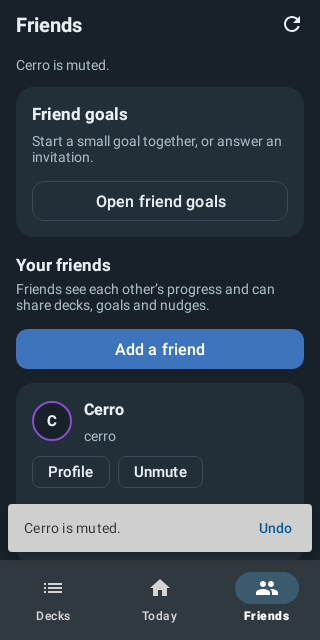
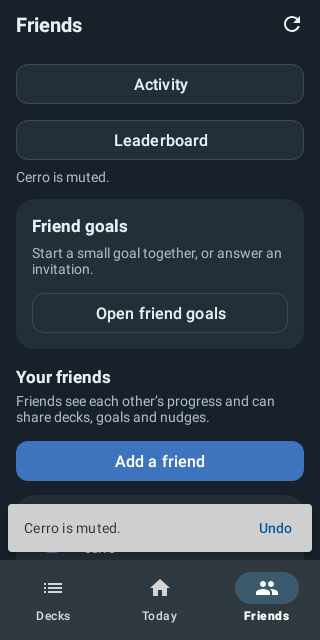
Capture Friends section validation
Keep screenshot coverage on the destination screens after legacy links
redirect into Friends. Record normal and large-text renders, including
Mute Undo above the bottom tabs.

Assisted-by: Codex (GPT-6)

diff --git a/AnkiDroid/src/test/java/com/ichi2/anki/AllActivitiesScreenshotTest.kt b/AnkiDroid/src/test/java/com/ichi2/anki/AllActivitiesScreenshotTest.kt
@@ -145,6 +145,9 @@ class AllActivitiesScreenshotTest : ScreenshotTest() {
                     // AnkiquestMeScreenshotTest covers the sections these legacy entry points now open.
                     com.ichi2.anki.ankiquest.AnkiquestRecordsActivity::class.java,
                     com.ichi2.anki.ankiquest.AnkiquestHistoryActivity::class.java,
+                    // Friends/Feed screenshot tests cover the sections these legacy entry points now open.
+                    com.ichi2.anki.ankiquest.AnkiquestFeedActivity::class.java,
+                    com.ichi2.anki.ankiquest.AnkiquestLeaderboardActivity::class.java,
                 )
             return ActivityList
                 .allActivitiesAndIntents()

diff --git a/docs/development/ankiquest-ui/friends-sections/README.md b/docs/development/ankiquest-ui/friends-sections/README.md
@@ -1,0 +1,44 @@
+# Activity and leaderboard within Friends
+
+Part of #139 and #142. The owner approved replacing the separate feed and
+leaderboard screens with expandable sections in Friends. Existing links and
+notifications open the appropriate section and retain their account and period.
+
+Sections load independently, even if the Friends overview fails. Expansion,
+feed filters, Inbox/Sent selection and leaderboard period survive refresh and
+rotation. Account changes reset filters and reject late responses. At 200%
+text, standings stack their identity, study status and XP to avoid splitting
+words into single letters.
+
+Validation on Robolectric API 33: 225 tests passed across 16 focused classes;
+eight existing upstream recreation cases remained skipped. This includes the
+old feed/leaderboard behavior suites, account-switch and rotation regressions,
+legacy redirects, navigation, notification routing, Me sections and Mute Undo.
+The initial section regressions failed before implementation. Both large-text
+leaderboard captures failed the word-wrapping assertion before the layout fix.
+
+Twenty light/dark screenshots at 320 dp and 100%/200% text passed and were
+reviewed: the twelve below and eight existing Mute Undo captures. The generic
+activity screenshot provider delegates legacy redirect entries to these
+destination tests. Physical-device Accessibility Scanner/TalkBack checks remain
+in #142; Robolectric captures do not establish those results.
+
+| State | Light | Dark |
+| --- | --- | --- |
+| Collapsed sections | [View](friends_collapsed.png) | [View](dark_friends_collapsed.png) |
+| Leaderboard | [View](friends_leaderboard.png) | [View](dark_friends_leaderboard.png) |
+| Leaderboard, 200% text | [View](friends_leaderboard_200percent.png) | [View](dark_friends_leaderboard_200percent.png) |
+| Offline | [View](friends_offline.png) | [View](dark_friends_offline.png) |
+| Activity | [View](activity_feed_320dp.png) | [View](dark_activity_feed_320dp.png) |
+| Activity, 200% text | [View](activity_feed_320dp_200percent.png) | [View](dark_activity_feed_320dp_200percent.png) |
+
+Reproduce the screenshots with:
+
+```sh
+./gradlew :AnkiDroid:testPlayDebugUnitTest \
+  --tests 'com.ichi2.anki.ankiquest.AnkiquestFriendsScreenshotTest' \
+  --tests 'com.ichi2.anki.ankiquest.AnkiquestFeedScreenshotTest' \
+  --tests 'com.ichi2.anki.ankiquest.AnkiquestMuteScreenshotTest' \
+  -PtestMaxParallelForks=1 -Pscreenshot -Ptheme=light,dark \
+  -Proborazzi.test.record=true
+```
